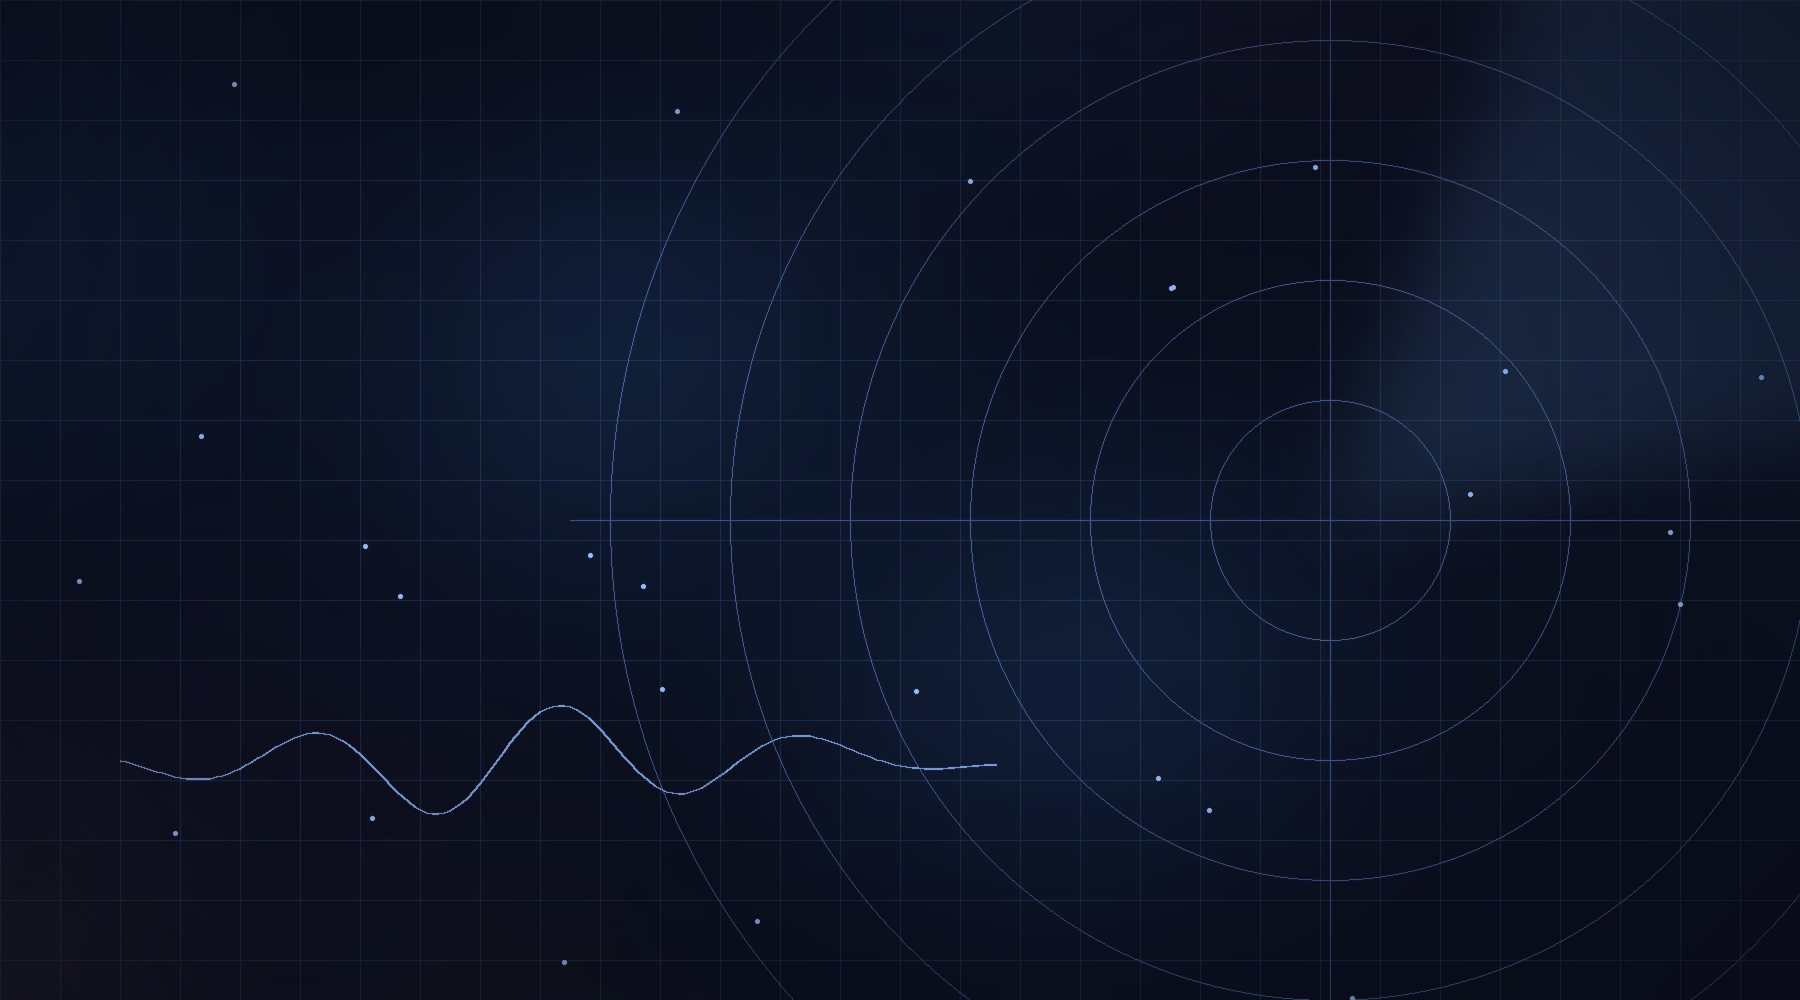
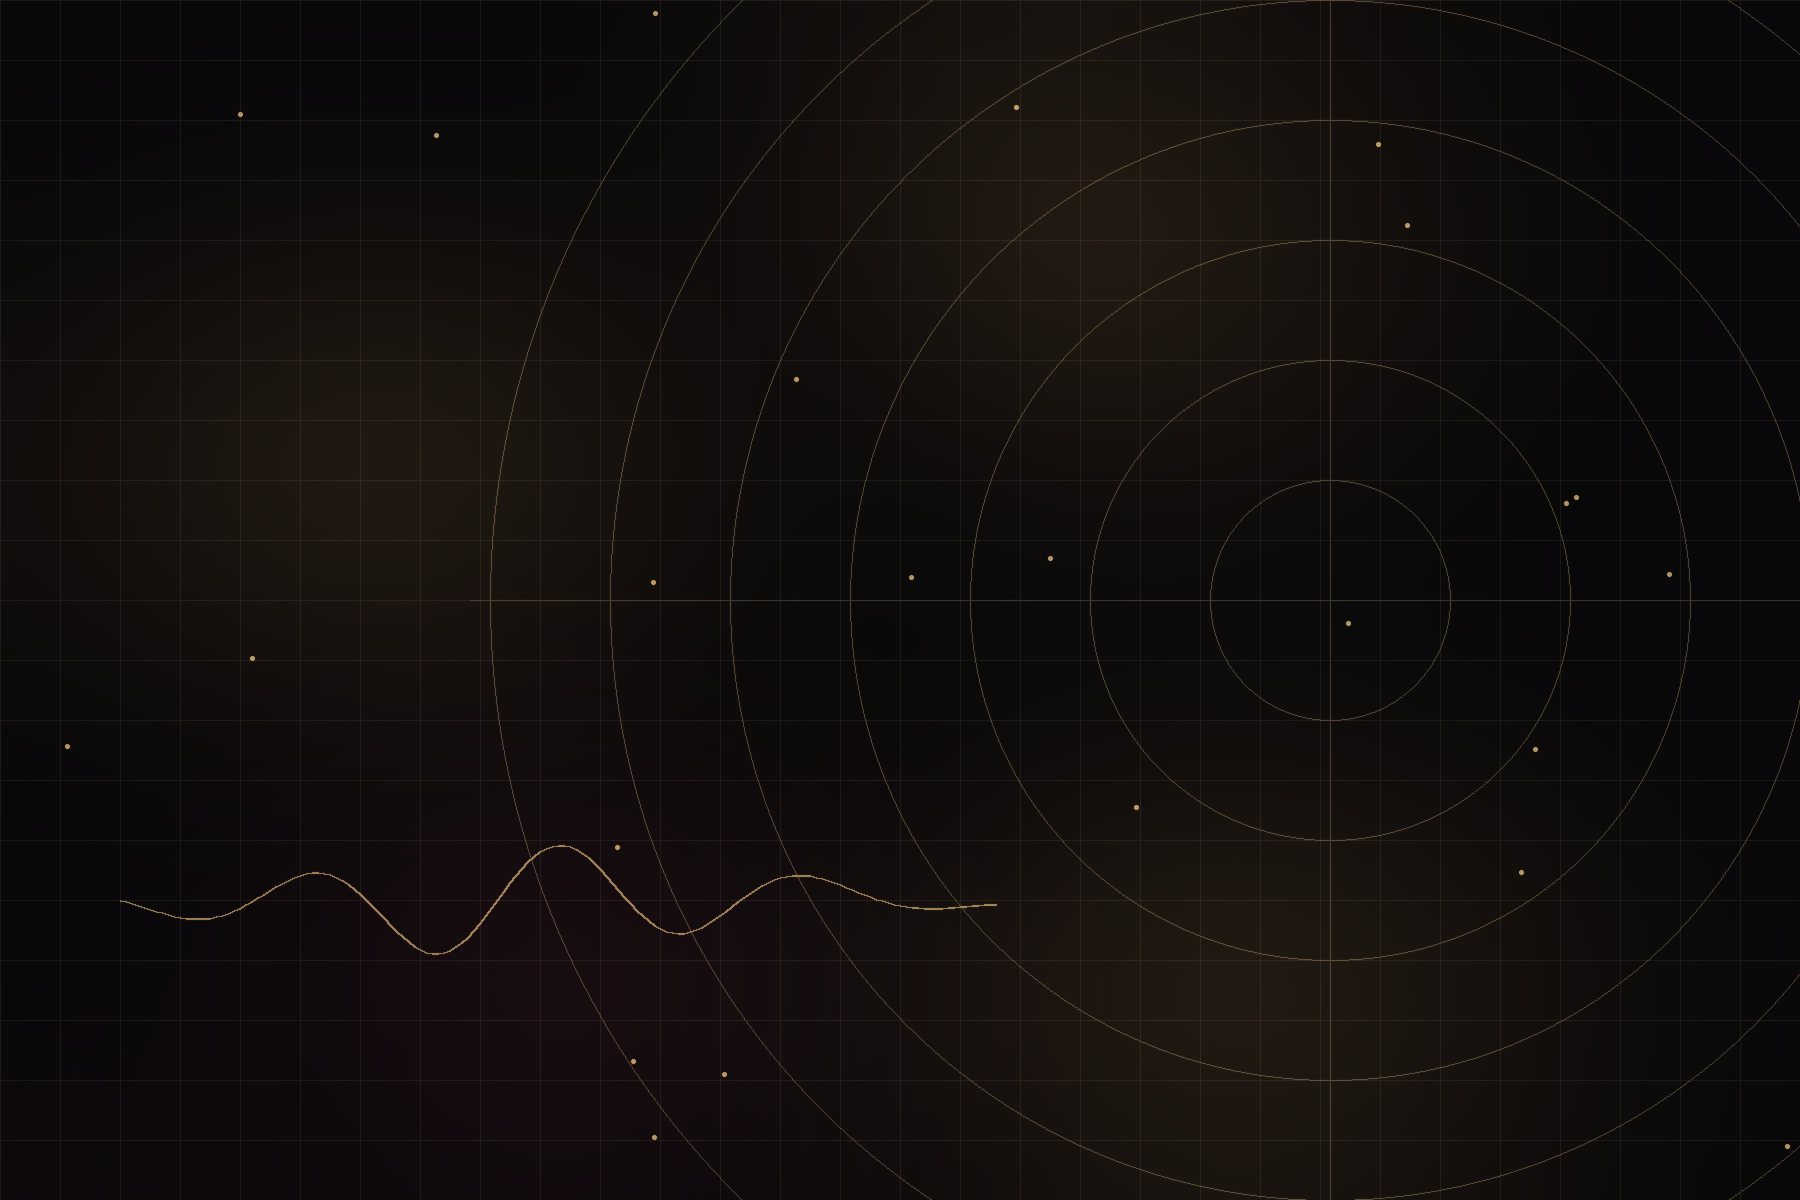
style: 背景を黒ベースに戻し、金〜ピンクをごく薄く。青は使わない

diff --git a/index.html b/index.html
@@ -127,8 +127,8 @@
     .wide-photo img,.about-photo img{width:100%;height:100%;display:block;object-fit:cover;filter:saturate(.68) contrast(1.03)}
     .wide-photo img{object-position:center 45%}
 
-    .method{position:relative;overflow:hidden;color:white;background:#0b0b0d url("assets/method-bg.jpg?v=3") center/cover no-repeat}
-    .method::before{content:"";position:absolute;inset:0;background:linear-gradient(180deg,rgba(6,6,10,.42),rgba(6,6,10,.28) 50%,rgba(6,6,10,.48))}
+    .method{position:relative;overflow:hidden;color:white;background:#0b0b0d url("assets/method-bg.jpg?v=4") center/cover no-repeat}
+    .method::before{content:"";position:absolute;inset:0;background:linear-gradient(180deg,rgba(6,6,8,.35),rgba(6,6,8,.2) 50%,rgba(6,6,8,.4))}
     .method .step p{color:#dcdcdc;text-shadow:0 1px 8px rgba(0,0,0,.6)}
     .method h2,.method h3,.method .section-intro{text-shadow:0 1px 10px rgba(0,0,0,.7)}
     .method .wrap{position:relative;z-index:1}
@@ -173,8 +173,8 @@
     .answer{max-width:830px;padding:0 58px 27px 0;color:var(--muted);font-size:1rem}
     .answer p:last-child{margin-bottom:0}
 
-    .contact{position:relative;overflow:hidden;color:white;background:#0a0e1c url("assets/contact-bg.jpg?v=2") center/cover no-repeat}
-    .contact::before{content:"";position:absolute;inset:0;background:rgba(6,9,20,.42)}
+    .contact{position:relative;overflow:hidden;color:white;background:#080709 url("assets/contact-bg.jpg?v=3") center/cover no-repeat}
+    .contact::before{content:"";position:absolute;inset:0;background:rgba(6,6,8,.3)}
     .contact-grid{position:relative;z-index:1;display:grid;grid-template-columns:.78fr 1.22fr;gap:66px;align-items:start}
     .contact h2{color:white}
     .contact-copy{color:#d3d3d3}
